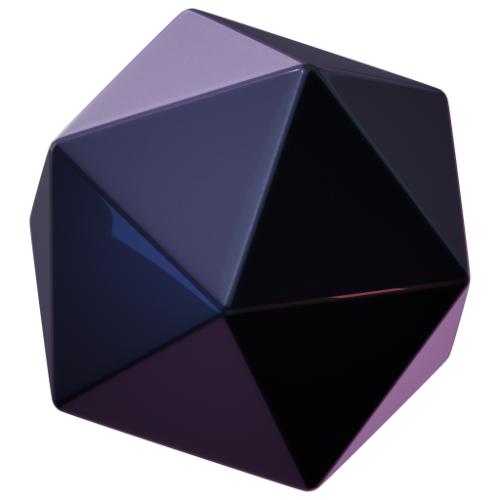
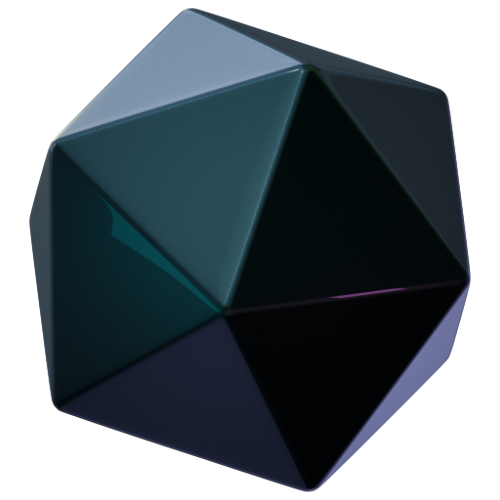
hero done!

diff --git a/src/pages/landingPage/Hero.jsx b/src/pages/landingPage/Hero.jsx
@@ -1,0 +1,90 @@
+import React from 'react'
+import ButtonLanding from './Button.landing'
+import Hexagon from './Hexagon'
+
+export default function Hero() {
+    return (
+        <section>
+            <div className='py-24 md:py-48 '>
+                <div className='w-full sticky z-20'>
+
+
+ <p className='uppercase font-extrabold text-center text-zinc-500 tracking-wider'>Introducing StaffTrack</p>
+                <h1 className=' font-black text-5xl text-center my-4 md:text-6xl lg:text-8xl lg:max-w-5xl mx-auto '>The Future of Attendance Tracking</h1>
+                <p className='text-center text-xl md:text-2xl mx-auto max-w-xl text-zinc-400'>Every minute counts! Streamline your workplace attendance with AI-driven analysis and metrics</p>
+                <div className="flex justify-center">
+                    <ButtonLanding className={"mt-10 px-10"}></ButtonLanding>
+                </div>
+
+
+
+
+
+                </div>
+            
+   
+                <div className="flex justify-center mt-24">
+
+
+                    <div className="inline-flex  relative z-0">
+                        <div className="absolute left-1/2 top-1/2 -translate-x-1/2 -translate-y-1/2">
+                            <Hexagon className={"size-[1100px] -z-40"}></Hexagon>
+
+                        </div>
+                        <div className="absolute left-1/2 top-1/2 -translate-x-1/2 -translate-y-1/2">
+                            <Hexagon className={"size-[1800px] -z-40"}></Hexagon>
+
+                        </div>
+
+
+                        <div className="absolute left-1/2 top-1/2 -translate-x-1/2 -translate-y-1/2">
+
+                            <div className=" bg-zinc-900 size-[240px]  rounded-full outline outline-[6px] outline-teal-500/10 -outline-offset-[6px]
+                            inline-flex
+                            items-center
+                            justify-center  
+                            absolute
+                            -top-[900px]
+                            left-[200px]
+                            ">                            <img src="/src/assets/images/cube.png" alt="" className='size-[140px]' />
+                            </div>
+
+                        </div>
+
+                        <div className="absolute left-1/2 top-1/2 -translate-x-1/2 -translate-y-1/2">
+
+                            <div className=" bg-zinc-900 size-[240px]  rounded-full outline outline-[6px] outline-teal-500/10 -outline-offset-[6px]
+                            inline-flex
+                            items-center
+                            justify-center  
+                            absolute
+                            top-[270px]
+                            left-[200px]
+                            ">                            <img src="/src/assets/images/cuboid.png" alt="" className='size-[140px]' />
+                            </div>
+
+                        </div>
+
+
+                        <div className="absolute left-1/2 top-1/2 -translate-x-1/2 -translate-y-1/2">
+
+                            <div className=" bg-zinc-900 size-[240px]  rounded-full outline outline-[6px] outline-teal-500/10 -outline-offset-[6px]
+                            inline-flex
+                            items-center
+                            justify-center  
+                            absolute
+                            -top-[80px]
+                            -left-[600px]
+                            ">                            <img src="/src/assets/images/torus.png" alt="" className='size-[140px]' />
+                            </div>
+
+                        </div>
+
+                        <img className='absolute w-[calc(100%+100px)] max-w-none -z-10 top-1/2 left-1/2 -translate-x-1/2 -translate-y-1/2 saturate-[10%] brightness-[4%] hue-rotate-[240deg]' src="/src/assets/images/icosahedron.png" alt="" />
+                        <img className='w-[500px] ' src="/src/assets/images/icosahedron.png" />
+                    </div>
+                </div>
+            </div>
+        </section>
+    )
+}

diff --git a/src/pages/landingPage/Hexagon.jsx b/src/pages/landingPage/Hexagon.jsx
@@ -1,0 +1,14 @@
+import React from 'react'
+import { twMerge } from 'tailwind-merge'
+
+function Hexagon({className}) {
+  return (
+    <svg width="82" height="72" viewBox="0 0 82 72" fill="none" strokeWidth="6" xmlns="http://www.w3.org/2000/svg" className={twMerge('size-[1100px] text-teal-500/10 -rotate-6', className)}
+    stroke='currentColor'
+    >
+        <path d="M3.44337 38.5C2.55021 36.953 2.55021 35.047 3.44338 33.5L20.0566 4.72501C20.9498 3.178 22.6004 2.22501 24.3868 2.22501H57.6132C59.3996 2.22501 61.0502 3.178 61.9434 4.72501L78.5566 33.5C79.4498 35.047 79.4498 36.953 78.5566 38.5L61.9434 67.275C61.0502 68.822 59.3996 69.775 57.6132 69.775H24.3867C22.6004 69.775 20.9498 68.822 20.0566 67.275L3.44337 38.5Z" vector-effect="non-scaling-stroke" />
+    </svg>
+  )
+}
+
+export default Hexagon

diff --git a/src/pages/landingPage/Button.landing.jsx b/src/pages/landingPage/Button.landing.jsx
@@ -1,0 +1,9 @@
+import React from 'react'
+import { twMerge } from 'tailwind-merge'
+function ButtonLanding({content = "Get started", className }) {
+  return (
+    <button className={twMerge("bg-teal-500/20 px-4 py-2 border-teal-500 border rounded-lg hover:shadow-md hover:shadow-teal-500/50 transition-all hover:scale-105 font-semibold", className)}>{content}</button>
+  )
+}
+
+export default ButtonLanding

diff --git a/src/pages/landingPage/LandingPage.jsx b/src/pages/landingPage/LandingPage.jsx
@@ -1,8 +1,11 @@
 import React from 'react'
+import Hero from './Hero'
 
 function LandingPage() {
   return (
-    <div>LandingPage</div>
+    <main className='bg-zinc-900 text-white h-[200vh] overflow-x-clip'>
+    <Hero/>
+    </main>
   )
 }
 
